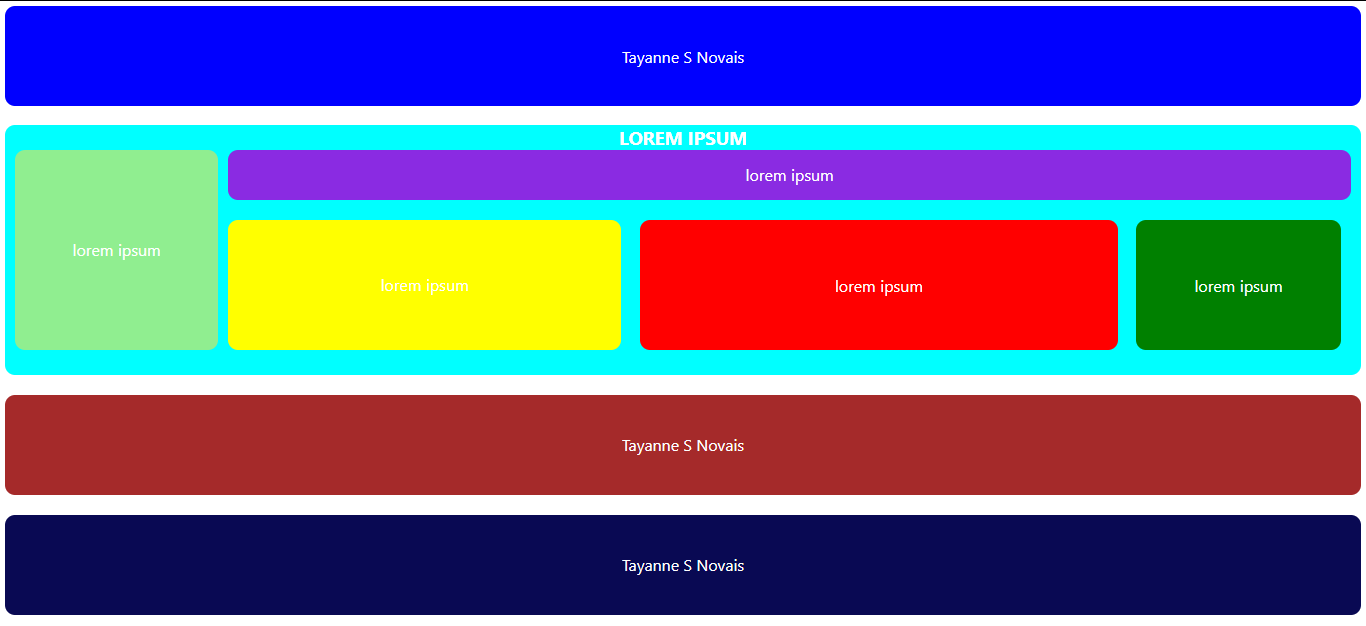
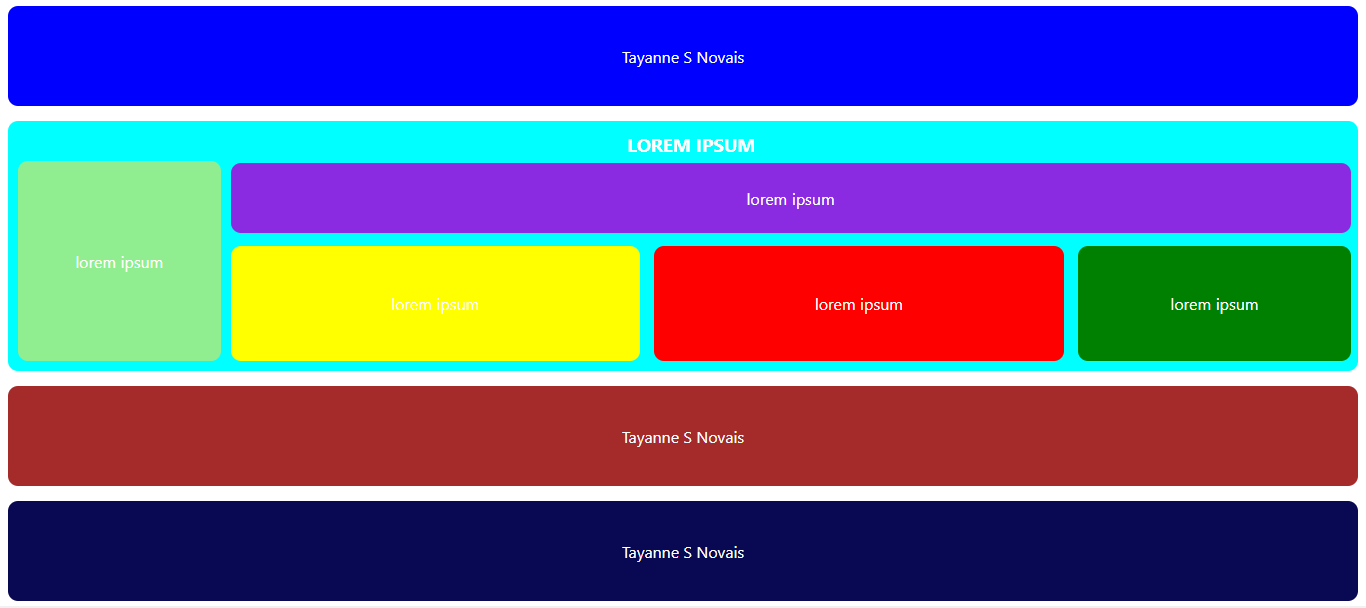
fix: style

diff --git a/style.css b/style.css
@@ -2,9 +2,8 @@
     box-sizing: border-box;
 }
 
+
 body{
-    padding: 5px;
-    margin: 0;
     color: white;
     font-family: 'Segoe UI', Tahoma, Geneva, Verdana, sans-serif;
 }
@@ -14,6 +13,8 @@ header {
     height: 100px;
     background-color: blue;
     border-radius: 10px;
+    margin-bottom: 15px;
+    
     display: flex;
     justify-content: center;
     align-items: center;
@@ -24,29 +25,31 @@ main {
     height: 250px;
     background-color: aqua;
     border-radius: 10px;
-    margin-bottom: 20px;
-    
+    margin-bottom: 15px;
+    display: flex;
    
 }
 
 .top {
     text-align: center;
     width: 100%;
-    height: 20px;
-    padding-bottom: 5px;
-    
+    height: 5px;
+    /* padding-bottom: 5px; */
+    position: absolute;
+    top: 115px;
 }
 
 .left {
     background-color: lightgreen;
     width: 15%;
     height: 200px;
-    margin: 5px 10px 5px 10px;
+    margin: 40px 0 10px 10px;
     float: left;   
     border-radius: 10px;
+    
     display: flex;
-  justify-content: center;
-  align-items: center;
+    justify-content: center;
+    align-items: center;
 }
 
 .right {
@@ -59,8 +62,11 @@ main {
 .roxo {
     border-radius: 10px;
     background-color: blueviolet;
-    width: 100%;
-    height: 50px;
+    position: absolute;
+    top: 165px;
+    width: 82%;
+    height: 70px;
+    
     display: flex;
     justify-content: center;
     align-items: center;
@@ -69,10 +75,11 @@ main {
 .amarelo {
     border-radius: 10px;
     background-color: yellow;
-    width: 35%;
-    height: 130px;
-    bottom: 200px;
-    margin-top: 20px;
+    width: 30%;
+    height: 115px;
+    position: absolute;
+    bottom: 245px;
+
     display: flex;
     justify-content: center;
     align-items: center;
@@ -81,27 +88,28 @@ main {
 .vermelho {
     border-radius: 10px;
     background-color: red;
-    width: 35%;
-    height: 130px;
-    bottom: 276px;
-    margin-top: 20px;
+    width: 30%;
+    height: 115px;
     position: absolute;
-    left: 640px;
+    left: 654px;
+    bottom: 245px;
+    
     display: flex;
-  justify-content: center;
-  align-items: center;
+    justify-content: center;
+    align-items: center;
 }
 
 .verde-escuro {
     border-radius: 10px;
     background-color: green;
-    width: 15%;
-    height: 130px;
+    width: 20%;
+    height: 115px;
     position: absolute;
-    bottom: 276px;
-    right: 25px;
+    bottom: 245px;
+    right: 15px;
+    
     display: flex;
-     justify-content: center;
+    justify-content: center;
     align-items: center;
 }
 
@@ -110,10 +118,11 @@ section {
     height: 100px;
     background-color: brown;
     border-radius: 10px;
-    margin-bottom: 20px;
+    margin-bottom: 15px;
+    
     display: flex;
-  justify-content: center;
-  align-items: center;
+    justify-content: center;
+    align-items: center;
 }
 
 footer {
@@ -121,6 +130,7 @@ footer {
     height: 100px;
     background-color: rgb(9, 9, 83);
     border-radius: 10px;
+    
     display: flex;
     justify-content: center;
     align-items: center;

diff --git a/index.html b/index.html
@@ -9,6 +9,7 @@
     <title>ATV DIVS</title>
 </head>
 <body>
+    
     <header>
         <div> Tayanne S Novais </div>
     </header>
@@ -28,6 +29,7 @@
     <footer>
         <div>Tayanne S Novais</div>
     </footer>
-    
+  
+
 </body>
 </html>
